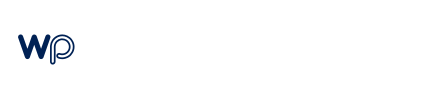
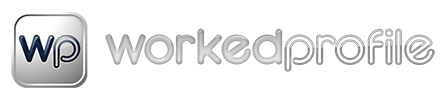
Change Brands To Gradient Mode

Changed region(s): [[0.2332, 0.27, 0.991, 0.72], [0.0, 0.12, 0.204, 0.9]]

diff --git a/styles/bootstrap-extended.css b/styles/bootstrap-extended.css
@@ -831,7 +831,7 @@ b, strong {
   border-width: 0;
 }
 .navbar-id .navbar-default .navbar-brand {
-  padding: 7px;
+  padding: 5px;
   color: rgba(255, 255, 255, 0.87);
 }
 .navbar-id .navbar-default .navbar-brand:hover,
@@ -839,7 +839,7 @@ b, strong {
   color: #ffffff;
 }
 .navbar-id .navbar-brand > img {
-  max-height: 36px;
+  max-height: 40px;
   border-radius: 8px;
 }
 .navbar-id .navbar-default .navbar-text {
